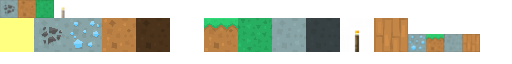
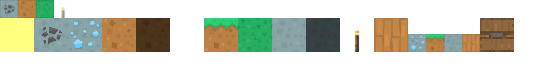
Added chest block, inventory block, and passed camera to blocks when rendering

diff --git a/core/src/com/jmrapp/terralegion/game/world/block/impl/ChestBlock.java b/core/src/com/jmrapp/terralegion/game/world/block/impl/ChestBlock.java
@@ -1,0 +1,111 @@
+package com.jmrapp.terralegion.game.world.block.impl;
+
+import com.badlogic.gdx.Gdx;
+import com.badlogic.gdx.Input;
+import com.badlogic.gdx.graphics.Color;
+import com.badlogic.gdx.graphics.OrthographicCamera;
+import com.badlogic.gdx.graphics.g2d.SpriteBatch;
+import com.badlogic.gdx.math.Rectangle;
+import com.badlogic.gdx.math.Vector3;
+import com.jmrapp.terralegion.engine.views.drawables.Drawable;
+import com.jmrapp.terralegion.engine.views.screens.ScreenManager;
+import com.jmrapp.terralegion.game.utils.LightUtils;
+import com.jmrapp.terralegion.game.views.screen.InventoryScreen;
+import com.jmrapp.terralegion.game.world.World;
+import com.jmrapp.terralegion.game.world.block.BlockProperties;
+import com.jmrapp.terralegion.game.world.block.BlockType;
+import com.jmrapp.terralegion.game.world.block.InventoryBlock;
+import com.jmrapp.terralegion.game.world.chunk.Chunk;
+import com.jmrapp.terralegion.game.world.chunk.ChunkManager;
+
+/**
+ * Acts as a block where players may store items
+ *
+ * Created by root on 8/2/16.
+ *
+ * TODO For breaking, the chest could display a menu: "(Break) or (Open)", or it could hold a (Break) button inside the inventory screen.
+ */
+public class ChestBlock extends InventoryBlock {
+
+    /** Used for the chest's inventory display **/
+    private InventoryScreen inventoryScreen;
+
+    /** Whether the chest is opened **/
+    private boolean open;
+
+    private Vector3 mousePosition = new Vector3();
+    private Rectangle mouseBounds;
+
+    public ChestBlock(int inventoryWidth, int inventoryHeight , BlockType type, Drawable drawable, float lightBlockingAmount, boolean collides, boolean transparent, float initHealth, float resistance){
+        super(inventoryWidth, inventoryHeight, type, drawable, lightBlockingAmount, collides, transparent, initHealth, resistance);
+    }
+
+    @Override
+    public void render(OrthographicCamera camera, SpriteBatch sb, float x, float y, float lightValue) {
+        super.render(camera, sb, x, y, lightValue);;
+
+        if(this.isOpen()){
+            this.inventoryScreen.update();;
+
+            this.inventoryScreen.render(sb);
+
+            if(Gdx.input.isKeyJustPressed(Input.Keys.ESCAPE)){
+                this.close();
+            }
+        }
+
+        if(this.isTapped(camera, x, y)){
+           this.open();
+        }
+
+    }
+
+    @Override
+    public void onPlace(ChunkManager chunkManager, Chunk chunk, int chunkTileX, int chunkTileY) {
+        super.onPlace(chunkManager, chunk, chunkTileX, chunkTileY);
+
+        this.inventoryScreen = new InventoryScreen(ScreenManager.getCurrent(), chunkManager.getWorld(), this.getInventory());
+
+        this.inventoryScreen.create();
+    }
+
+    /**
+     * @return Whether the chest is being tapped
+     */
+    public boolean isTapped(OrthographicCamera camera, float blockX, float blockY){
+        this.mousePosition.set(Gdx.input.getX(), Gdx.input.getY(), 0);
+        this.mousePosition = camera.unproject(mousePosition);
+
+        if(this.mouseBounds == null){
+            this.mouseBounds = new Rectangle(mousePosition.x, mousePosition.y, 0, 0);
+        }
+
+        this.mouseBounds.set(this.mousePosition.x, this.mousePosition.y, 0, 0);
+
+        if(this.getBody(blockX, blockY).getBounds().overlaps(mouseBounds) && Gdx.input.isButtonPressed(Input.Buttons.LEFT)){
+            return true;
+        }
+
+        return false;
+    }
+
+    /**
+     * Opens the inventory display
+     */
+    public void open(){
+        this.open = true;
+    }
+
+    /**
+     * Closes the inventory display
+     */
+    public void close(){
+        this.open = false;
+    }
+
+    public boolean isOpen(){
+        return this.open;
+    }
+
+
+}

diff --git a/core/src/com/jmrapp/terralegion/game/world/chunk/Chunk.java b/core/src/com/jmrapp/terralegion/game/world/chunk/Chunk.java
@@ -121,11 +121,11 @@ public class Chunk {
 					if ((type == null || type == BlockType.AIR) || BlockManager.getBlock(type).isTransparent()) {
 						BlockType wallType = getWall(x, y);
 						if (wallType != null && wallType != BlockType.AIR) {
-							BlockManager.getBlock(wallType).render(sb, x * ChunkManager.TILE_SIZE + (startX * Chunk.CHUNK_SIZE * ChunkManager.TILE_SIZE), y * ChunkManager.TILE_SIZE + (startY * Chunk.CHUNK_SIZE * ChunkManager.TILE_SIZE), getLightValue(x, y));
+							BlockManager.getBlock(wallType).render(camera, sb, x * ChunkManager.TILE_SIZE + (startX * Chunk.CHUNK_SIZE * ChunkManager.TILE_SIZE), y * ChunkManager.TILE_SIZE + (startY * Chunk.CHUNK_SIZE * ChunkManager.TILE_SIZE), getLightValue(x, y));
 						}
 					}
 					if (type != null && type != BlockType.AIR) {
-						BlockManager.getBlock(type).render(sb, x * ChunkManager.TILE_SIZE + (startX * Chunk.CHUNK_SIZE * ChunkManager.TILE_SIZE), y * ChunkManager.TILE_SIZE + (startY * Chunk.CHUNK_SIZE * ChunkManager.TILE_SIZE), getLightValue(x, y));
+						BlockManager.getBlock(type).render(camera, sb, x * ChunkManager.TILE_SIZE + (startX * Chunk.CHUNK_SIZE * ChunkManager.TILE_SIZE), y * ChunkManager.TILE_SIZE + (startY * Chunk.CHUNK_SIZE * ChunkManager.TILE_SIZE), getLightValue(x, y));
 					}
 				}
 			}

diff --git a/core/src/com/jmrapp/terralegion/game/world/block/InventoryBlock.java b/core/src/com/jmrapp/terralegion/game/world/block/InventoryBlock.java
@@ -1,0 +1,36 @@
+package com.jmrapp.terralegion.game.world.block;
+
+import com.jmrapp.terralegion.engine.views.drawables.Drawable;
+import com.jmrapp.terralegion.game.item.inventory.Inventory;
+
+/**
+ * Provides a block which contains an inventory
+ *
+ * Created by jordanb84 on 8/2/16.
+ */
+public abstract class InventoryBlock extends Block{
+
+    /** For management of the block's inventory **/
+    private Inventory inventory;
+
+    public InventoryBlock(int inventoryWidth, int inventoryHeight ,BlockType type, Drawable drawable, float lightBlockingAmount, boolean collides, boolean transparent, float initHealth, float resistance){
+        super(type, drawable, lightBlockingAmount, collides, transparent, initHealth, resistance);
+
+        this.inventory = new Inventory(inventoryWidth, inventoryHeight);
+    }
+
+    /**
+     * @return {@link InventoryBlock#inventory}
+     */
+    public Inventory getInventory(){
+        return this.inventory;
+    }
+
+    /**
+     * @param inventory {@link InventoryBlock#inventory}
+     */
+    public void setInventory(Inventory inventory){
+        this.inventory = inventory;
+    }
+
+}

diff --git a/core/src/com/jmrapp/terralegion/game/world/entity/impl/Player.java b/core/src/com/jmrapp/terralegion/game/world/entity/impl/Player.java
@@ -6,7 +6,10 @@ import com.jmrapp.terralegion.engine.views.drawables.AnimationDrawable;
 import com.jmrapp.terralegion.engine.views.drawables.ResourceManager;
 import com.jmrapp.terralegion.engine.views.drawables.SpriteSheet;
 import com.jmrapp.terralegion.engine.world.entity.BodyType;
+import com.jmrapp.terralegion.game.item.ItemManager;
+import com.jmrapp.terralegion.game.item.ItemStack;
 import com.jmrapp.terralegion.game.item.inventory.Inventory;
+import com.jmrapp.terralegion.game.world.block.BlockType;
 import com.jmrapp.terralegion.game.world.chunk.Chunk;
 import com.jmrapp.terralegion.game.world.entity.Drop;
 import com.jmrapp.terralegion.game.world.entity.LivingEntity;
@@ -20,6 +23,8 @@ public class Player extends LivingEntity {
 	public Player(float x, float y) {
 		super(createAnimationDrawable(), x, y, BodyType.DYNAMIC, 12f, 100, 100, 6.5f);
 		inventory = new Inventory(5, 8);
+
+		this.inventory.addItemStack(ItemManager.getInstance().getItem(BlockType.WOOD_CHEST), 1);
 	}
 
     private static AnimationDrawable createAnimationDrawable() {

diff --git a/core/src/com/jmrapp/terralegion/game/world/block/BlockManager.java b/core/src/com/jmrapp/terralegion/game/world/block/BlockManager.java
@@ -1,6 +1,7 @@
 package com.jmrapp.terralegion.game.world.block;
 
 import com.jmrapp.terralegion.engine.views.drawables.ResourceManager;
+import com.jmrapp.terralegion.game.world.block.impl.ChestBlock;
 import com.jmrapp.terralegion.game.world.block.impl.LightBlock;
 import com.jmrapp.terralegion.game.world.block.impl.WoodBlock;
 
@@ -23,6 +24,7 @@ public class BlockManager {
 		blocks.put(BlockType.DIRT_WALL, new Wall(BlockType.DIRT_WALL, ResourceManager.getInstance().getDrawable("dirtWall"), .5f, .15f));
 		blocks.put(BlockType.WOOD, new WoodBlock(BlockType.WOOD, ResourceManager.getInstance().getDrawable("wood"), .15f, true, true, .6f, .3f));
 		blocks.put(BlockType.LEAVES, new Block(BlockType.LEAVES, ResourceManager.getInstance().getDrawable("leaves"), .15f, true, false, .5f, .1f));
+		blocks.put(BlockType.WOOD_CHEST, new ChestBlock(3, 3, BlockType.WOOD_CHEST, ResourceManager.getInstance().getDrawable("chest"), .15f, true, false, 5f, .1f));
 	}
 	
 	public static Block getBlock(BlockType type) {

diff --git a/core/src/com/jmrapp/terralegion/game/world/block/Block.java b/core/src/com/jmrapp/terralegion/game/world/block/Block.java
@@ -1,6 +1,7 @@
 package com.jmrapp.terralegion.game.world.block;
 
 import com.badlogic.gdx.graphics.Color;
+import com.badlogic.gdx.graphics.OrthographicCamera;
 import com.badlogic.gdx.graphics.g2d.SpriteBatch;
 import com.badlogic.gdx.math.MathUtils;
 import com.jmrapp.terralegion.engine.views.drawables.Drawable;
@@ -31,7 +32,7 @@ public class Block {
 		this.resistance = resistance;
 	}
 
-	public void render(SpriteBatch sb, float x, float y, float lightValue) {
+	public void render(OrthographicCamera camera, SpriteBatch sb, float x, float y, float lightValue) {
 		float value = lightValue < LightUtils.MIN_LIGHT_VALUE ? LightUtils.MIN_LIGHT_VALUE : lightValue;
 		sb.setColor(value, value, value, 1);
 		drawable.render(sb, x, y);

diff --git a/core/src/com/jmrapp/terralegion/game/item/ItemManager.java b/core/src/com/jmrapp/terralegion/game/item/ItemManager.java
@@ -29,6 +29,7 @@ public class ItemManager {
 		items.put(BlockType.LEAVES.getId(), new BlockItem(BlockType.LEAVES, ItemCategory.BLOCK, "Leaves", ResourceManager.getInstance().getDrawable("leaves"), 64));
 		items.put(ItemType.SWORD.getId(), new SwordItem(ItemType.SWORD, "Fiery Sword", ResourceManager.getInstance().getDrawable("sword"), 1, 6, 1.0f, 50, 1.0f));
 		items.put(ItemType.STICK.getId(), new Item(ItemType.STICK.getId(), ItemCategory.MISC, "Stick", ResourceManager.getInstance().getDrawable("stick"), 64));
+		items.put(BlockType.WOOD_CHEST.getId(), new BlockItem(BlockType.WOOD_CHEST, ItemCategory.BLOCK, "Wooden Chest", ResourceManager.getInstance().getDrawable("chest"), 64));
 	}
 
 	public Item getItem(ItemType type) {

diff --git a/core/src/com/jmrapp/terralegion/game/views/screen/InventoryScreen.java b/core/src/com/jmrapp/terralegion/game/views/screen/InventoryScreen.java
@@ -207,7 +207,6 @@ public class InventoryScreen implements Screen {
 	@Override
 	public void render(SpriteBatch sb) {
 		sb.setProjectionMatrix(camera.combined);
-		sb.begin();
 		sb.draw(bg, 0, 0);
 		itemNameLabel.render(sb);
 		itemInfoLabel.render(sb);
@@ -216,7 +215,6 @@ public class InventoryScreen implements Screen {
 		invBtn.render(sb);
 		dropBtn.render(sb);
 		splitBtn.render(sb);
-		sb.end();
 
 		stage.draw();
 	}

diff --git a/core/src/com/jmrapp/terralegion/game/world/block/BlockType.java b/core/src/com/jmrapp/terralegion/game/world/block/BlockType.java
@@ -3,7 +3,7 @@ package com.jmrapp.terralegion.game.world.block;
 public enum BlockType {
 
 	AIR(0), DIRT(1), GRASS(2), STONE(3), DIAMOND(4), TORCH(5), STONE_WALL(6), COAL(8), DIRT_WALL(9),
-    WOOD(10), LEAVES(11);
+    WOOD(10), LEAVES(11), WOOD_CHEST(12);
 
     private static final BlockType[] blockTypeArray = values();
 	private final int id;
